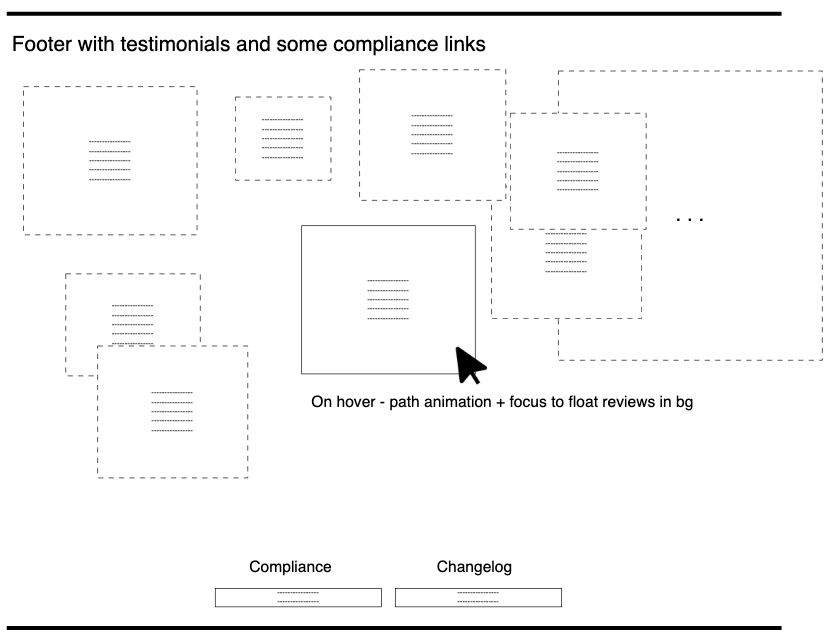
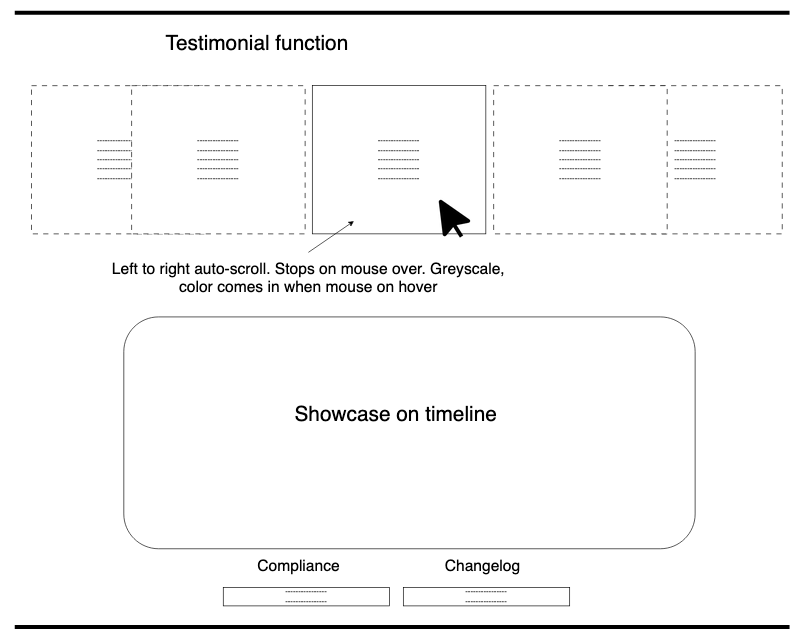
update a couple design files to altest state

diff --git a/COMP267/Unit 3/learningDiary.rst b/COMP267/Unit 3/learningDiary.rst
@@ -11,7 +11,7 @@ Unit 3 CSS site styling learning diary
 Summary
 ========
 
-   *"Lorem ipsum - pending completion of this unit"*
+   *"Since I already know CSS, I decided to learn SASS and SCSS. This unit was difficult to execute because it requires knowing about the technologies in the units ahead, before actually studying them. I found myself studying into unit 4 and 5 concurrently to overcome this. For example, I found myself thinking the only way to animate something was with CSS, but in later units, we would be learning how to do this with javascript. This incurred a bit of technical debt which I hope is paid off."*
 
 
 The work
@@ -31,9 +31,9 @@ The work
     - ideally **do not change HTML unless necessary**.
     - change ``head`` tags as needed.
 
-5. Upload the docs to GitHub and submit a learning diary post as a blog entry in the **Group Blog**
+4. Upload the docs to GitHub and submit a learning diary post as a blog entry in the **Group Blog**
 
-6. Notify the tutor of the submission, and upload to the **AU drop box**.
+5. Notify the tutor of the submission, and upload to the **AU drop box**.
 
 
 
@@ -44,6 +44,7 @@ Assignment 3 submission
 Blank heading - fill in with assignment heading
 -------------------------------------------------
 
+:download:`You can download my Unit 3 source code by clicking here<../attachments/src/unit3-code.zip>`. Unpack the .zip and view the README.txt to learn more about the file structure. `You can also check out my project on GitHub <https://github.com/hectorbarquero/technicalwriting_sandbox>`_
 
 
 The learning map
